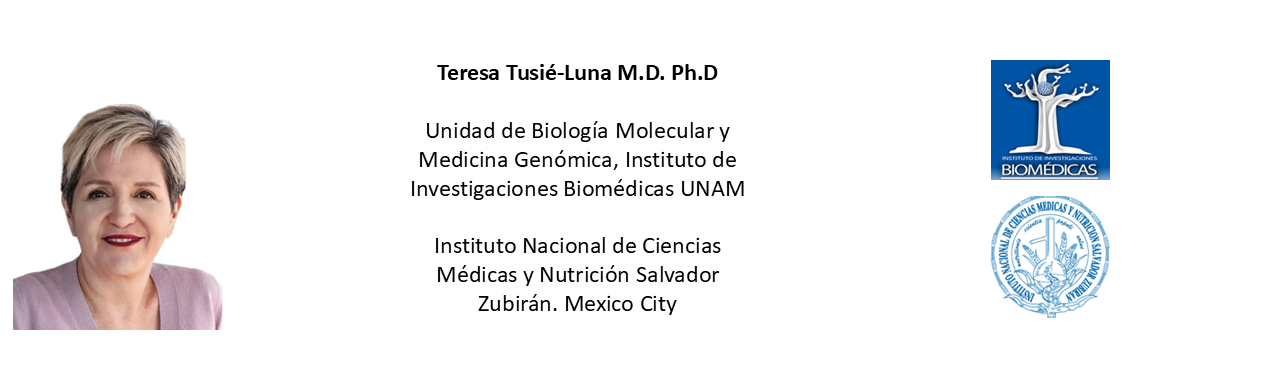
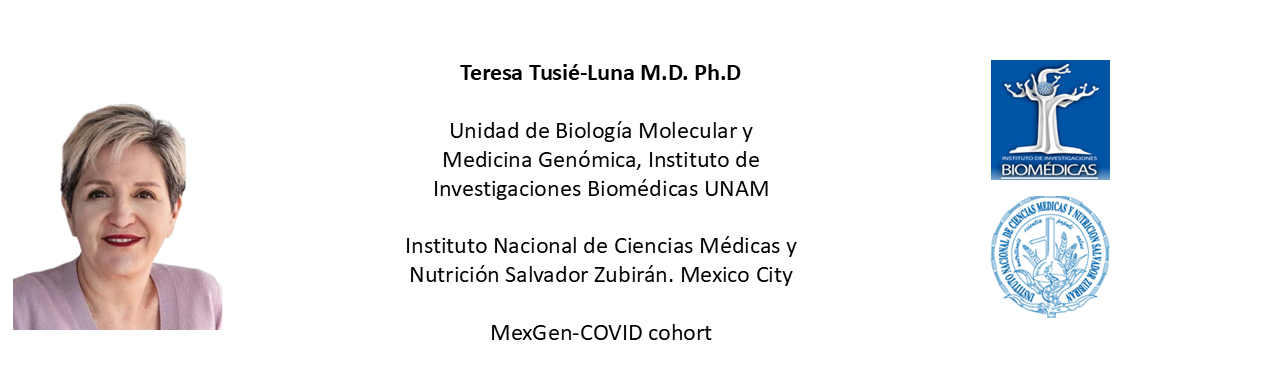
update network

diff --git a/DEEP/docs/Our_Network.md b/DEEP/docs/Our_Network.md
@@ -51,6 +51,9 @@ Our network includes 20 project partners and cohorts worldwide, bringing togethe
 <a href="https://med.stanford.edu/cardenas-lab.html" target="_blank">
 <img src="https://github.com/hannah-e/DEEP_site/blob/gh-pages/assets/Cardenas_CRELES.png?raw=true">
 </a>
+<a href="https://www.genyo.es/en/research/research-groups/genetics-and-genomics-of-immune-mediated-diseases/" target="_blank">
+<img src="https://github.com/hannah-e/DEEP_site/blob/gh-pages/assets/Carnero_Granada.png?raw=true">
+</a>
 <a href="https://pure.amsterdamumc.nl/en/persons/felix-chilunga/" target="_blank">
 <img src="https://github.com/hannah-e/DEEP_site/blob/gh-pages/assets/Chilunga_RODAM.png?raw=true">
 </a>
@@ -107,6 +110,9 @@ Our network includes 20 project partners and cohorts worldwide, bringing togethe
 </a>
 <a href="https://health-sciences.nwu.ac.za/cen/marlien-pieters" target="_blank">
 <img src="https://github.com/hannah-e/DEEP_site/blob/gh-pages/assets/Pieters_PURE.png?raw=true">
+</a>
+<a href="https://www.genyo.es/en/research/research-groups/genetics-and-genomics-of-immune-mediated-diseases/" target="_blank">
+<img src="https://github.com/hannah-e/DEEP_site/blob/gh-pages/assets/Povedano_Granada.png?raw=true">
 </a>
 <a href="https://research.pasteur.fr/en/member/lluis-quintana-murci/" target="_blank">
 <img src="https://github.com/hannah-e/DEEP_site/blob/gh-pages/assets/QuintanaMurci_Pasteur.png?raw=true">
